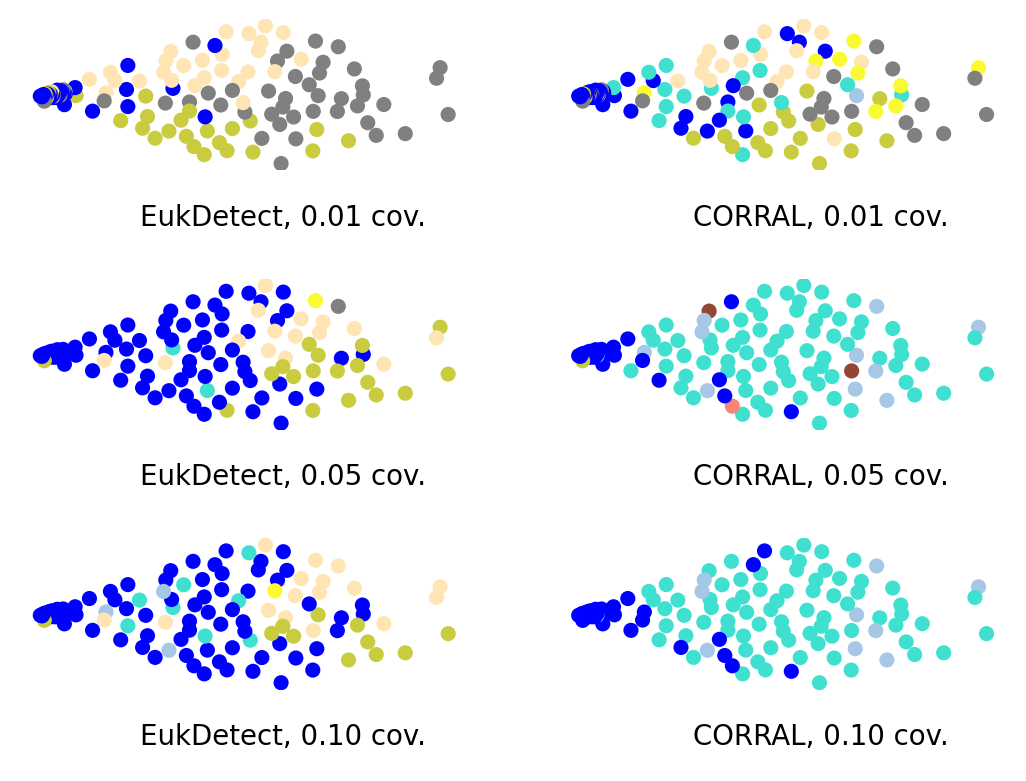
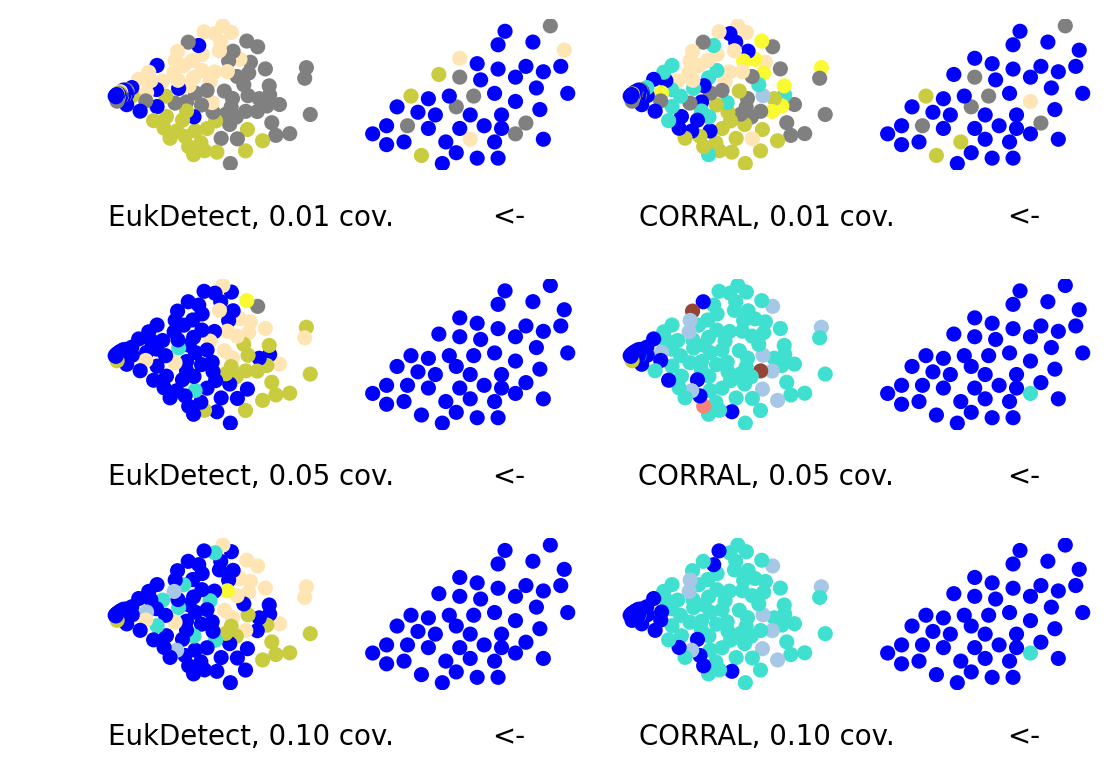
Results for the focused subset

diff --git a/scripts/parse_pairs_results_for_spreadsheet_and_pca.py b/scripts/parse_pairs_results_for_spreadsheet_and_pca.py
@@ -165,7 +165,6 @@ def fix_column_width(writer, sheet_name, df):
 
 def do(refdb_ncbi, input_files, pca_tsv, output_tsv, output_png, output_xlsx):
     results_df_detailed, input_names = read_all(refdb_ncbi, input_files)
-    results_df_summary = summarise_df_detailed(results_df_detailed, input_names)
     results_df_detailed.to_csv(output_tsv, sep = "\t", index = False)
 
     results_df_detailed = results_df_detailed.drop(["taxon_lca_ab", "rank_lca_ab", "genus_lca_ab"], axis=1)
@@ -175,13 +174,19 @@ def do(refdb_ncbi, input_files, pca_tsv, output_tsv, output_png, output_xlsx):
     pca_df = pandas.read_csv(pca_tsv, sep = "\t").astype({"taxon_a": str, "taxon_b": str})
     df = pca_df.merge(results_df_detailed, on = ["taxon_a", "taxon_b"])
 
-    fig, axs = plt.subplots(3, 2)
+    fig, axs = plt.subplots(3, 4)
     subplot(df, "EukDetectLo", "EukDetect, 0.01 cov.", axs[0][0])
     subplot(df, "EukDetectMid", "EukDetect, 0.05 cov.", axs[1][0])
     subplot(df, "EukDetectHi", "EukDetect, 0.10 cov.", axs[2][0])
-    subplot(df, "CORRALLo", "CORRAL, 0.01 cov.", axs[0][1])
-    subplot(df, "CORRALMid", "CORRAL, 0.05 cov.", axs[1][1])
-    subplot(df, "CORRALHi", "CORRAL, 0.10 cov.", axs[2][1])
+    subplot(df[df['is_picked_for_focused_subset']], "EukDetectLo", "<-", axs[0][1])
+    subplot(df[df['is_picked_for_focused_subset']], "EukDetectMid", "<-", axs[1][1])
+    subplot(df[df['is_picked_for_focused_subset']], "EukDetectHi", "<-", axs[2][1])
+    subplot(df, "CORRALLo", "CORRAL, 0.01 cov.", axs[0][2])
+    subplot(df, "CORRALMid", "CORRAL, 0.05 cov.", axs[1][2])
+    subplot(df, "CORRALHi", "CORRAL, 0.10 cov.", axs[2][2])
+    subplot(df[df['is_picked_for_focused_subset']], "CORRALLo", "<-", axs[0][3])
+    subplot(df[df['is_picked_for_focused_subset']], "CORRALMid", "<-", axs[1][3])
+    subplot(df[df['is_picked_for_focused_subset']], "CORRALHi", "<-", axs[2][3])
 
     fig.savefig(output_png, bbox_inches='tight', dpi=199)
 
@@ -190,14 +195,24 @@ def do(refdb_ncbi, input_files, pca_tsv, output_tsv, output_png, output_xlsx):
     cs = df.columns
     df = df.set_index(['taxon_a_name', 'taxon_b_name'])
     
+    results_df_summary = summarise_df_detailed(df[df['is_picked_for_broad_subset']], input_names)
+    results_df_second_summary = summarise_df_detailed(df[df['is_picked_for_focused_subset']], input_names)
     with pandas.ExcelWriter(output_xlsx, engine="xlsxwriter") as writer:
-        sheet_name_summary = "Coding legend and result counts"
+        sheet_name_summary = "Broad subset result counts"
         results_df_summary.transpose().to_excel(writer, sheet_name=sheet_name_summary, header = False)
         worksheet_summary = writer.sheets[sheet_name_summary]
         cell_format_summary = writer.book.add_format({'bold': True})
         worksheet_summary.set_column(0, 0, 30, cell_format_summary )
         worksheet_summary.set_column(1, 10, 20)
         worksheet_summary.set_row(0, 20, cell_format_summary )
+
+        sheet_name_second_summary = "Focused subset result counts"
+        results_df_second_summary.transpose().to_excel(writer, sheet_name=sheet_name_second_summary, header = False)
+        worksheet_second_summary = writer.sheets[sheet_name_second_summary]
+        cell_format_second_summary = writer.book.add_format({'bold': True})
+        worksheet_second_summary.set_column(0, 0, 30, cell_format_second_summary )
+        worksheet_second_summary.set_column(1, 10, 20)
+        worksheet_second_summary.set_row(0, 20, cell_format_second_summary )
 
         sheet_name_detailed = "PCA coordinates and results"
         df.to_excel(writer, sheet_name = sheet_name_detailed,  float_format="%.3f")
